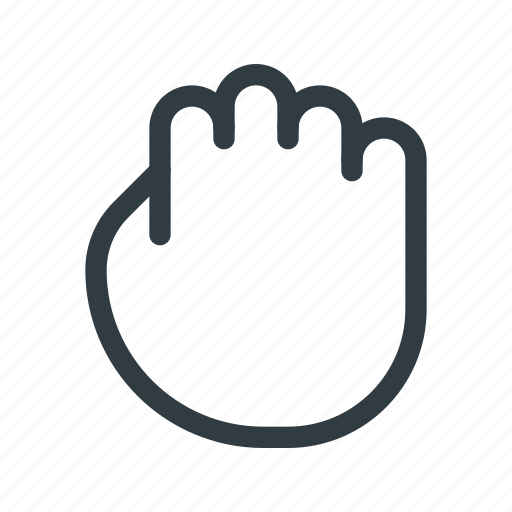
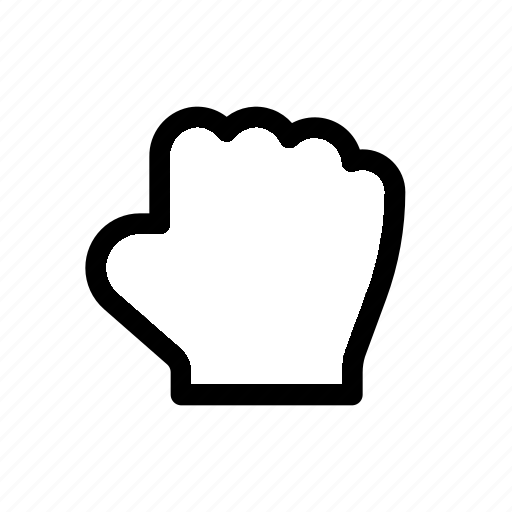
Updated cursor 2

Changed region(s): [[0.1562, 0.125, 0.8438, 0.875]]

diff --git a/iLmkc7YH/sketch.js b/iLmkc7YH/sketch.js
@@ -47,6 +47,7 @@ function setup() {
     maxA = PI/2;
     select('#endDiv').hide();
     select('#instrDiv').hide();
+    cursor_img = loadImage('./cursor1.png');
     startGame();
 }
 function trainBlockStart() {
@@ -54,7 +55,6 @@ function trainBlockStart() {
     offset = 1-blockType;
     //subjTrials.type = blockType;
     currentSession = 0;
-    cursor_img = loadImage('./cursor1.png')
     sessionInfo(0);
 }
 function trainBlockNext() {
@@ -257,7 +257,7 @@ function drawControlBar(x, y) {
     ellipse(x, y, h/25, h/25);
   
     
-    image(cursor_img, x-0.4*h*cos(angAcc), y-0.4*h*sin(angAcc), 16, 16);
+    image(cursor_img, x-0.4*h*cos(angAcc)-16, y-0.4*h*sin(angAcc)-16, 32, 32);
 }
 function handleMouseMove(e) {
     if(isDraw) {
